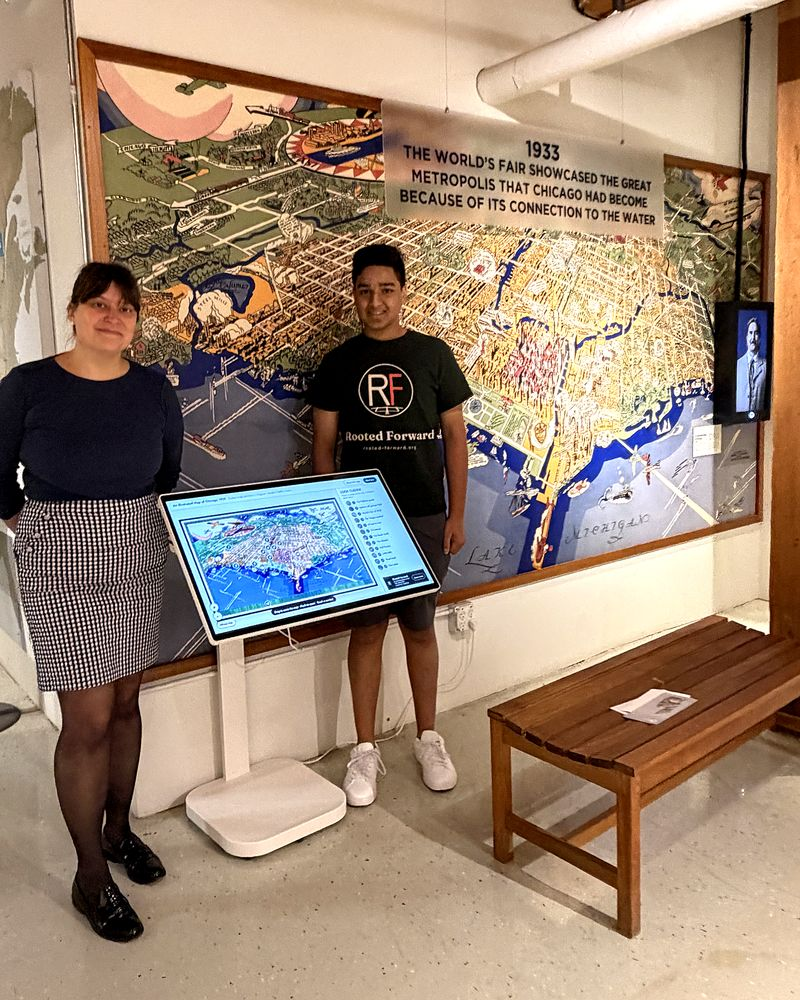
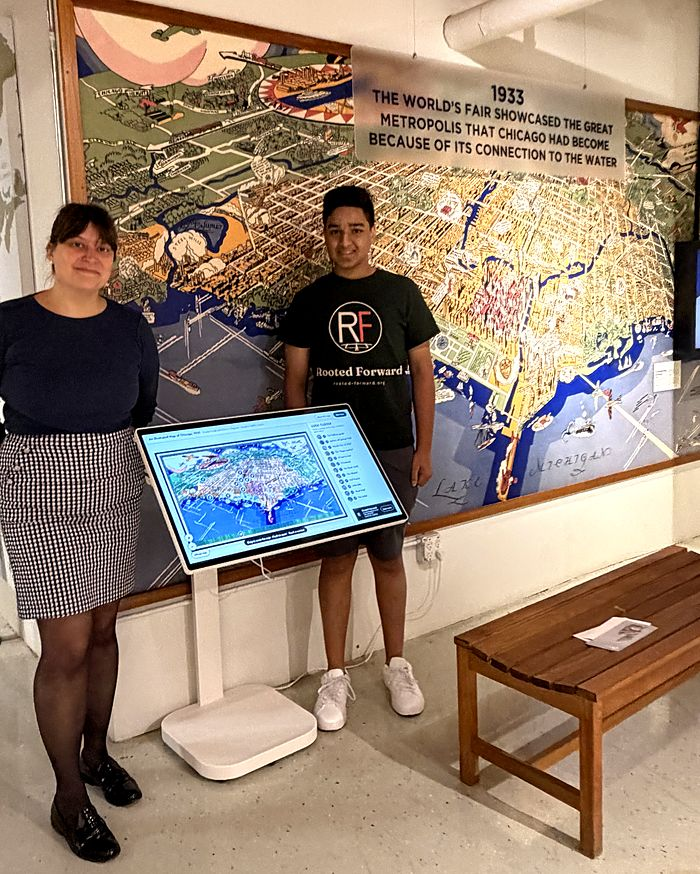
The Columbia walk comes off the site, and the map zooms sharp
Walk Columbia and West Harlem is still being written, so its switch is
off: no page, no listing, no sitemap row, no API entry. The site is the
one-walk site again until the owner turns it back on.

The exhibit block on the home page now carries both pictures, the map
with the installation photograph pinned over its corner, cropped a
little tighter on the two people and the touch screen, without the
column growing. The display type is the site's cream on the museum's
blue, and the words are the owner's new ones. On the phone map the
sheet is laid out at its zoomed size instead of scaled by a transform,
so the map's lettering stays sharp when zoomed, the full image loads
sooner, and a phone starts with the map filling the width.

diff --git a/src/components/look-closer/LookCloserMap.tsx b/src/components/look-closer/LookCloserMap.tsx
@@ -16,7 +16,7 @@
 // ------------------------------------------------------------------
 
 import Link from "next/link";
-import { useCallback, useEffect, useMemo, useRef, useState } from "react";
+import { useCallback, useEffect, useMemo, useRef, useState, useSyncExternalStore } from "react";
 import {
   EXHIBIT,
   MAP_CREDIT,
@@ -35,9 +35,25 @@ interface View {
   y: number;
 }
 
-/** how far the map may be enlarged past fitting the screen; the full
- *  image is 6400 wide, so this stays inside its pixels on a phone */
-const MAX_ZOOM = 6;
+/** how far the map may be enlarged past fitting the screen. The full
+ *  image is 6400 wide; past about this the phone would be stretching
+ *  it, and the kiosk's own limit is close to it. */
+const MAX_ZOOM = 4.5;
+
+/** past this the 2400px image is being stretched, so the 6400 loads */
+const FULL_AT = 1.2;
+
+const COARSE = "(pointer: coarse)";
+const subscribeCoarse = (cb: () => void) => {
+  const m = window.matchMedia(COARSE);
+  m.addEventListener("change", cb);
+  return () => m.removeEventListener("change", cb);
+};
+/** a touch screen, read the React way so the server and the first
+ *  client render agree and the real answer arrives right after */
+function useCoarsePointer() {
+  return useSyncExternalStore(subscribeCoarse, () => window.matchMedia(COARSE).matches, () => false);
+}
 
 function Runs({ runs }: { runs: TextRun[] }) {
   return (
@@ -50,7 +66,12 @@ function Runs({ runs }: { runs: TextRun[] }) {
 export default function LookCloserMap({ inApp }: { inApp: boolean }) {
   const stageRef = useRef<HTMLDivElement>(null);
   const [size, setSize] = useState({ w: 0, h: 0 });
-  const [view, setView] = useState<View>({ k: 1, x: 0, y: 0 });
+  // k of 0 means no one has touched the map yet, and the first view is
+  // chosen from the screen: the whole sheet on a desktop, and on a phone
+  // the sheet filling the width, because the whole map at phone size is
+  // a postage stamp and the jokes on it are the point.
+  const [view, setView] = useState<View>({ k: 0, x: 0, y: 0 });
+  const coarse = useCoarsePointer();
   const [animated, setAnimated] = useState(false);
   const [active, setActive] = useState<number | null>(null);
   const [about, setAbout] = useState(false);
@@ -127,23 +148,25 @@ export default function LookCloserMap({ inApp }: { inApp: boolean }) {
   );
 
   // What is drawn is always the clamped view, so the first render and
-  // every resize land the sheet centered without a state update: a
-  // view of {1, 0, 0} clamps to the fitted, centered sheet.
-  const shown = clamp(view);
+  // every resize land the sheet where it belongs without a state
+  // update. Until the first touch the view is derived from the screen.
+  const shown = useMemo(() => {
+    if (view.k > 0 || !sheet.w) return clamp(view);
+    const k = coarse ? Math.min(2.2, Math.max(1, size.w / sheet.w)) : 1;
+    return clamp({ k, x: (size.w - sheet.w * k) / 2, y: (size.h - sheet.h * k) / 2 });
+  }, [view, clamp, coarse, sheet, size]);
 
   /** zoom about a stage point, keeping that point still under the finger */
   const zoomAt = useCallback(
     (factor: number, px: number, py: number, animate = false) => {
       setAnimated(animate);
-      setView((raw) => {
-        const v = clamp(raw);
-        const k = Math.min(MAX_ZOOM, Math.max(1, v.k * factor));
-        const f = k / v.k;
-        return clamp({ k, x: px - (px - v.x) * f, y: py - (py - v.y) * f });
-      });
-      if (k_isNearFull(shown.k * factor)) setWantFull(true);
+      const v = shown;
+      const k = Math.min(MAX_ZOOM, Math.max(1, v.k * factor));
+      const f = k / v.k;
+      setView(clamp({ k, x: px - (px - v.x) * f, y: py - (py - v.y) * f }));
+      if (k >= FULL_AT) setWantFull(true);
     },
-    [clamp, shown.k]
+    [clamp, shown]
   );
 
   // ---- pointers: one drags, two pinch ----
@@ -186,7 +209,7 @@ export default function LookCloserMap({ inApp }: { inApp: boolean }) {
         x: mid.x - (g.mid.x - g.view.x) * ff,
         y: mid.y - (g.mid.y - g.view.y) * ff,
       }));
-      if (k_isNearFull(k)) setWantFull(true);
+      if (k >= FULL_AT) setWantFull(true);
       g.moved = true;
     } else {
       const p = pts[0];
@@ -240,7 +263,7 @@ export default function LookCloserMap({ inApp }: { inApp: boolean }) {
       // a little smaller than that so the map around it still reads.
       const panelW = Math.min(size.w * 0.46, 400);
       const freeW = size.w - panelW;
-      const s = sheet.w / MAP_SPACE.w;
+      const s = sheet.w / MAP_SPACE.w; // base sheet, before zoom
       const dw = (d.box?.w ?? d.r * 2) * s;
       const dh = (d.box?.h ?? d.r * 2) * s;
       const k = Math.min(MAX_ZOOM, Math.max(1.2, Math.min((freeW * 0.62) / dw, (size.h * 0.62) / dh)));
@@ -265,7 +288,8 @@ export default function LookCloserMap({ inApp }: { inApp: boolean }) {
     return () => window.clearTimeout(t);
   }, [hint]);
 
-  const s = sheet.w / MAP_SPACE.w;
+  /** map space to the sheet's laid-out pixels at the current zoom */
+  const s = (sheet.w * shown.k) / MAP_SPACE.w;
   const current: MapDetail | null = active === null ? null : MAP_DETAILS[active];
   const panelOpen = current !== null || about;
 
@@ -285,10 +309,12 @@ export default function LookCloserMap({ inApp }: { inApp: boolean }) {
         <div
           className={styles.sheet}
           style={{
-            width: sheet.w,
-            height: sheet.h,
-            transform: `translate(${shown.x}px, ${shown.y}px) scale(${shown.k})`,
-            transition: animated ? "transform 0.45s cubic-bezier(0.2, 0.7, 0.2, 1)" : "none",
+            width: sheet.w * shown.k,
+            height: sheet.h * shown.k,
+            transform: `translate(${shown.x}px, ${shown.y}px)`,
+            transition: animated
+              ? "transform 0.45s cubic-bezier(0.2, 0.7, 0.2, 1), width 0.45s cubic-bezier(0.2, 0.7, 0.2, 1), height 0.45s cubic-bezier(0.2, 0.7, 0.2, 1)"
+              : "none",
           }}
         >
           {/* eslint-disable-next-line @next/next/no-img-element */}
@@ -312,7 +338,7 @@ export default function LookCloserMap({ inApp }: { inApp: boolean }) {
                 <button
                   type="button"
                   className={`${styles.ring} ${d.box ? styles.ringBox : ""} ${on ? styles.ringOn : ""}`}
-                  style={{ left: d.cx * s, top: d.cy * s, width: w, height: h, borderWidth: 2 / shown.k, outlineWidth: 2 / shown.k }}
+                  style={{ left: d.cx * s, top: d.cy * s, width: w, height: h }}
                   onClick={() => open(i)}
                   aria-label={`Detail ${d.number}, ${d.title}`}
                   tabIndex={-1}
@@ -323,8 +349,6 @@ export default function LookCloserMap({ inApp }: { inApp: boolean }) {
                   style={{
                     left: d.cx * s - w / 2 + (d.nudge?.x ?? 0) * s,
                     top: d.cy * s - h / 2 + (d.nudge?.y ?? 0) * s,
-                    transform: `scale(${1 / shown.k})`,
-                    transformOrigin: "center",
                   }}
                   onClick={() => open(i)}
                   aria-label={`Detail ${d.number}, ${d.title}`}
@@ -500,7 +524,3 @@ export default function LookCloserMap({ inApp }: { inApp: boolean }) {
   );
 }
 
-/** past this the 2400px image is being stretched, so the 6400 loads */
-function k_isNearFull(k: number) {
-  return k >= 1.5;
-}

diff --git a/src/app/page.tsx b/src/app/page.tsx
@@ -232,18 +232,31 @@ export default function Home() {
       >
         <div className="mx-auto max-w-6xl px-6 py-16 md:py-24">
           <div className="grid grid-cols-1 items-center gap-y-10 md:grid-cols-12 md:gap-x-14">
+            {/* The map itself, and the installation photograph set over
+                its corner like a print pinned to it, so both are seen
+                and neither is large. The column stays shorter than the
+                photograph alone was. */}
             <div className="md:col-span-5">
-              <Link href="/look-closer" className="group block" aria-label="Open the guide, Look Closer">
+              <div className="relative pb-[26%]">
+                <Link href="/look-closer" className="group block" aria-label="Open the guide, Look Closer">
+                  {/* eslint-disable-next-line @next/next/no-img-element */}
+                  <img
+                    src={LOOK_CLOSER_FEATURE.image}
+                    alt={LOOK_CLOSER_FEATURE.imageAlt}
+                    loading="lazy"
+                    className="w-full bg-white p-1.5 shadow-[8px_8px_0_0_rgba(0,0,0,0.18)] transition-transform group-hover:-translate-y-0.5"
+                  />
+                </Link>
                 {/* eslint-disable-next-line @next/next/no-img-element */}
                 <img
                   src={EXHIBIT_PHOTO.src}
-                  srcSet={`${EXHIBIT_PHOTO.small} 800w, ${EXHIBIT_PHOTO.src} 1400w`}
-                  sizes="(min-width: 768px) 40vw, 100vw"
+                  srcSet={`${EXHIBIT_PHOTO.small} 700w, ${EXHIBIT_PHOTO.src} 1200w`}
+                  sizes="(min-width: 768px) 18vw, 44vw"
                   alt={EXHIBIT_PHOTO.alt}
                   loading="lazy"
-                  className="w-full bg-white p-1.5 shadow-[8px_8px_0_0_rgba(0,0,0,0.18)] transition-transform group-hover:-translate-y-0.5"
+                  className="absolute bottom-0 right-4 w-[44%] bg-white p-1.5 shadow-[8px_8px_0_0_rgba(0,0,0,0.18)]"
                 />
-              </Link>
+              </div>
               <p className="mt-3 font-body text-[11px] leading-snug text-white/70">
                 {EXHIBIT_PHOTO.caption}
               </p>
@@ -266,15 +279,17 @@ export default function Home() {
                 </span>
               </div>
 
-              <h2 className="mt-6 font-display text-5xl font-semibold leading-none tracking-tight text-white md:text-6xl">
+              <h2 className="mt-6 font-display text-5xl font-semibold leading-none tracking-tight text-cream md:text-6xl">
                 {EXHIBIT.title}
               </h2>
-              <p className="mt-5 max-w-[34ch] font-display text-xl leading-snug text-white md:text-2xl">
+              <p className="mt-5 max-w-[34ch] font-display text-xl leading-snug text-cream md:text-2xl">
                 {WEB_COPY.lede}
               </p>
-              <p className="mt-5 max-w-[56ch] font-body text-base leading-relaxed text-white/85 md:text-lg">
-                {WEB_COPY.body}
-              </p>
+              {WEB_COPY.body.map((para) => (
+                <p key={para} className="mt-4 max-w-[58ch] font-body text-base leading-relaxed text-white/85 md:text-lg">
+                  {para}
+                </p>
+              ))}
 
               <div className="mt-8 flex flex-wrap items-center gap-4">
                 <Link

diff --git a/src/lib/look-closer.ts b/src/lib/look-closer.ts
@@ -103,9 +103,12 @@ export const EXHIBIT_PHOTO = {
  *  LOOK_CLOSER_FEATURE instead. */
 export const WEB_COPY = {
   lockup: "Rooted Forward & Chicago Maritime Museum",
-  lede: "Rooted Forward and the Chicago Maritime Museum have teamed up to explore the history behind a 1931 illustrated map of Chicago.",
-  body: "Our interactive guide examines the map's jokes and drawings and what they reveal about Chicago's neighborhoods, racial stereotypes, and housing discrimination. Visit the museum to see the map and use the touchscreen beside it, or explore the guide here online.",
-  explore: "Explore the guide",
+  lede: "Rooted Forward and the Chicago Maritime Museum created this exhibit to explore the history behind a 1931 illustrated map of Chicago.",
+  body: [
+    "Published as Chicago prepared for its second world\u2019s fair, the map presents a lively city of beaches, ballparks, and skyscrapers. But its jokes and drawings also include racial caricatures and references to housing restrictions that excluded Black families from certain neighborhoods. Our interactive guide explains these details and the discrimination and segregation they reflect.",
+    "Visit the museum in Bridgeport to see the map and explore it on the touchscreen beside it, or open the interactive map here on your phone.",
+  ],
+  explore: "Explore the map",
   visit: "Plan a visit",
 };
 
@@ -130,12 +133,10 @@ export const LOOK_CLOSER_FEATURE = {
     place: "1200 West 35th Street, Bridgeport, on the river level of the Bridgeport Art Center",
     hours: MUSEUM.hours,
   },
-  /** the information sheet in the app, the collaboration first */
-  about: [
-    "Rooted Forward and the Chicago Maritime Museum made this exhibit together. The map hangs on the museum's wall in Bridgeport with a touch screen beside it, and the same map, with the same twelve details, opens on your phone here.",
-    ...EXHIBIT.paragraphs,
-    EXHIBIT.tap,
-  ],
+  /** the information sheet in the app: the owner's words for the
+   *  exhibit, the kiosk's paragraph on the city behind it, and how to
+   *  use the map */
+  about: [WEB_COPY.lede, ...WEB_COPY.body, EXHIBIT.paragraphs[2], EXHIBIT.tap],
   credit: `${MAP_CREDIT.title}. ${MAP_CREDIT.makers}. ${MAP_CREDIT.publisher}. ${MAP_CREDIT.holder}.`,
 };
 

diff --git a/src/lib/tours/registry.ts b/src/lib/tours/registry.ts
@@ -94,8 +94,14 @@ export const HARLEM_LIVE = false;
 /*  the earlier Harlem route above, which stays in the repo behind   */
 /*  its switch. This one has its own, so it can be built and served  */
 /*  locally before it is announced.                                  */
+/*                                                                     */
+/*  Off since September 13, 2026: the walk is still being written and */
+/*  the owner does not want it on the site yet. Off means no page,   */
+/*  no listing on /tours or the home page, no sitemap row, and no    */
+/*  /api/walk entry, so a phone cannot find it either. To put it     */
+/*  back: set this to true, commit, push, deploy.                    */
 /* ------------------------------------------------------------------ */
-export const WEST_HARLEM_LIVE = true;
+export const WEST_HARLEM_LIVE = false;
 
 /** Walks the site shows but the app must not, by slug. The app lists
  *  whatever /api/walk's index carries, so a walk here never reaches a

diff --git a/src/components/look-closer/LookCloserMap.module.css b/src/components/look-closer/LookCloserMap.module.css
@@ -37,7 +37,6 @@
   transform-origin: 0 0;
   background: #e9e1d2;
   box-shadow: 0 12px 40px rgba(30, 29, 27, 0.22);
-  will-change: transform;
 }
 .sheet img {
   position: absolute;
